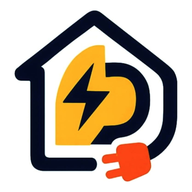
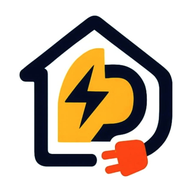
Add files via upload

Changed region(s): [[0.0625, 0.0312, 0.9375, 0.9688], [0.375, 0.3125, 0.5938, 0.5312], [0.5, 0.5312, 0.5312, 0.5625]]

diff --git a/index.html b/index.html
@@ -8,9 +8,9 @@
 <meta name="robots" content="index, follow">
 <meta name="theme-color" content="#101a30">
 <link rel="canonical" href="https://dceletric.com.br/">
-<link rel="icon" href="/favicon.ico?v=2" sizes="48x48">
-<link rel="icon" type="image/png" sizes="32x32" href="/favicon-32x32.png?v=2">
-<link rel="icon" type="image/png" sizes="16x16" href="/favicon-16x16.png?v=2">
+<link rel="icon" href="/favicon.ico?v=3" sizes="48x48">
+<link rel="icon" type="image/png" sizes="32x32" href="/favicon-32x32.png?v=3">
+<link rel="icon" type="image/png" sizes="16x16" href="/favicon-16x16.png?v=3">
 <link rel="apple-touch-icon" href="/apple-touch-icon.png?v=2">
 <link rel="manifest" href="/site.webmanifest">
 <meta property="og:type" content="website"><meta property="og:locale" content="pt_BR">
@@ -34,7 +34,7 @@ header{position:sticky;top:env(safe-area-inset-top,0px);background:var(--navy);z
 body::before{content:"";position:fixed;inset:0 0 auto;height:env(safe-area-inset-top,0px);background:var(--navy);z-index:10}
 header .wrap{display:flex;align-items:center;justify-content:space-between;height:68px}
 .logo{display:flex;align-items:center;gap:10px;text-decoration:none;color:#fff;font-weight:800;line-height:1.1}
-.logo img{width:44px;height:44px;border-radius:8px;background:#fff;object-fit:contain}
+.logo img{width:44px;height:44px;border-radius:50%;background:#fff;object-fit:contain}
 .logo small{display:block;font-weight:500;font-size:12px;color:var(--brand)}
 nav a{color:#cfd6e6;text-decoration:none;margin-left:24px;font-size:15px;padding:6px 0}
 nav a:hover{color:#fff;box-shadow:0 2px var(--brand)}
